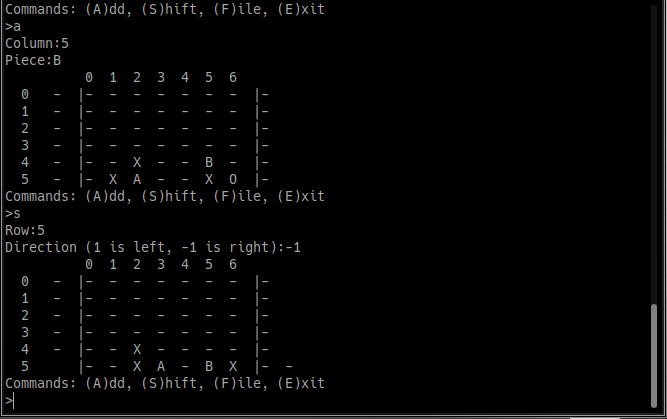
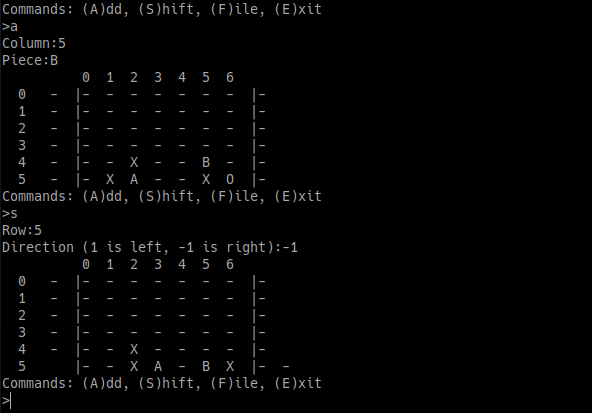
fixed shift=0 bug

diff --git a/ShiftTacToe.py b/ShiftTacToe.py
@@ -16,8 +16,8 @@
 class ShiftTacToeA:
     
     def __init__(self, r=6, c=7, s=2, ist=0):
-        if ist <=s:
-            self.Set(r,c,s,ist)
+        ist = ist if ist <= s else s
+        self.Set(r,c,s,ist)
     
     #rows, cols are playable area
     #shift is how much it can shift outside the playable area (standard is 2)
@@ -28,6 +28,9 @@ class ShiftTacToeA:
         self.ROWS = rows
         self.COLS = cols
         self.SHIFT = shift
+        #for badly set initial shifts
+        if initshift > self.SHIFT:
+            initshift = self.SHFIFT
         
         #set up board memory
         self.BOARD = [[' ' for i in range(cols + shift)] for j in range(rows)]
@@ -146,8 +149,10 @@ class ShiftTacToeA:
 class ShiftTacToeE:
     
     def __init__(self, r=6, c=7, s=2, ist=0):
-        if ist <=s:
-            self.Set(r,c,s,ist)
+        #fix ist > s
+        ist = ist if ist <= s else s
+        self.Set(r,c,s,ist)
+
     
     #rows, cols are playable area
     #shift is how much it can shift outside the playable area (standard is 2)
@@ -158,6 +163,9 @@ class ShiftTacToeE:
         self.ROWS = rows
         self.COLS = cols
         self.SHIFT = shift
+        #for badly set initial shifts
+        if initshift > self.SHIFT:
+            initshift = self.SHFIFT
         
         #set up board memory
         self.BOARD = [[' ' for i in range(cols)] for j in range(rows)]

diff --git a/ShiftTacToe_gui.py b/ShiftTacToe_gui.py
@@ -238,7 +238,9 @@ if __name__ == '__main__':
             shift = int(values['shiftspin_el'])
             #just checking that combo box has a value
             initshift = values['shiftinit_el'] if type(values['shiftinit_el']) is int else 0
-            window['shiftinit_el'].update(values = [i for i in range(shift+1)], value = initshift)
+            ninit = initshift if initshift <= shift else shift
+            window['shiftinit_el'].update(values = [i for i in range(shift+1)], value = ninit)
+            
             #values['shiftinit_el']=0
             b  = stt.ShiftTacToeE(int(rows),int(cols),int(shift), initshift)
             refresh = True
